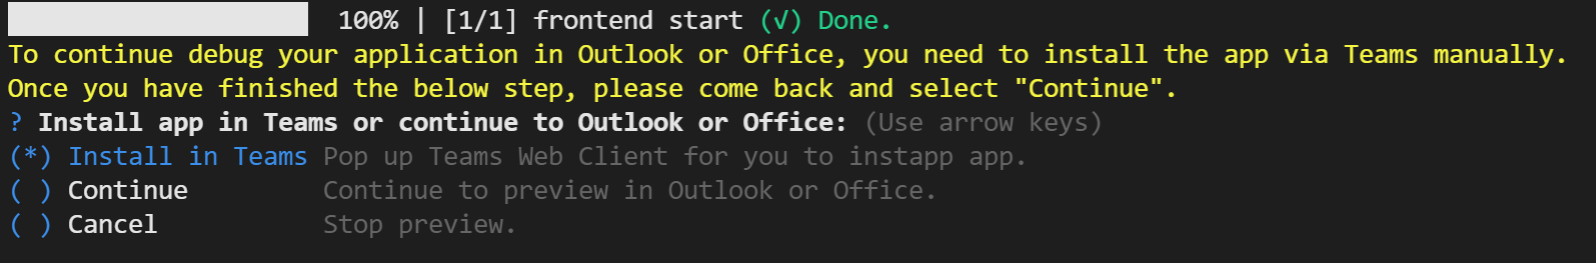
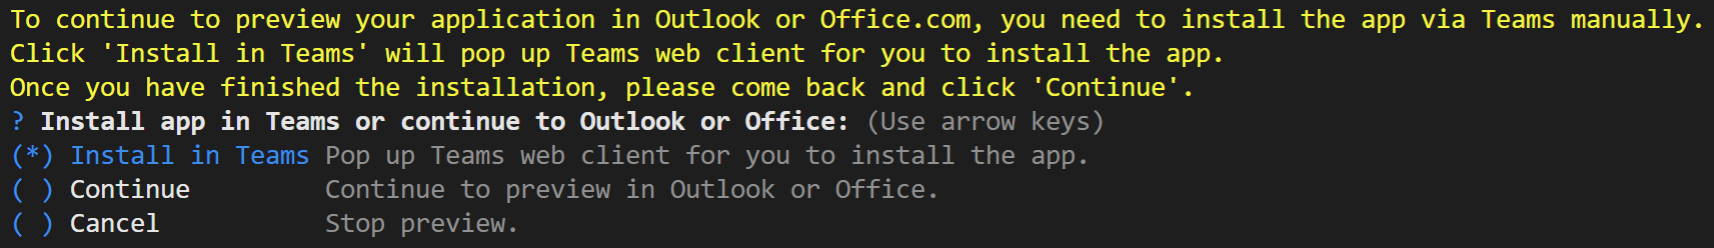
chore(m365): update m365 template readme

Changed region(s): [[0.0, 0.4234, 0.7061, 0.9597], [0.0, 0.1694, 0.9825, 0.3952], [0.0, 0.0, 1.0, 0.1411]]

diff --git a/templates/bot/js/m365/README.md b/templates/bot/js/m365/README.md
@@ -1,12 +1,10 @@
 # How to use this M365 Messaging Extensions Search app
 
-A bot, chatbot, or conversational bot is an app that responds to simple commands sent in chat and replies in meaningful ways. Examples of bots in everyday use include: bots that notify about build failures, bots that provide information about the weather or bus schedules, or provide travel information. A bot interaction can be a quick question and answer, or it can be a complex conversation. Being a cloud application, a bot can provide valuable and secure access to cloud services and corporate resources.
-
-A Messaging Extension allows users to interact with your web service while composing messages in the Microsoft Teams client. Users can invoke your web service to assist message composition, from the message compose box, or from the search bar.
+A Messaging Extension allows users to interact with your web service while composing messages in the Microsoft Teams and Outlook client. Users can invoke your web service to assist message composition, from the message compose box, or from the search bar.
 
 Messaging Extensions are implemented on top of the Bot support architecture within Teams.
 
-This is a simple hello world application with both Bot and Messaging extension capabilities.
+This is a simple search application with Messaging extension capabilities.
 
 ![Search App Demo](./images/SearchAppDemo.gif)
 
@@ -18,16 +16,14 @@ This is a simple hello world application with both Bot and Messaging extension c
 
 ## Debug
 ### From Visual Studio Code
-- Use the `Run and Debug Activity Panel` in Visual Studio Code, select `Debug in Teams`, `Debug in Outlook` and click the `Run and Debug` green arrow button.
-- If you select `Debug in Outlook`, during debugging, a VS Code dialog will be popped up as the image below. Please click "Install in Teams" first to install the app in Teams, then click "Connect to Outlook channel" to connect the bot to Outlook channel, then click "Continue" to continue debugging the app in Outlook.
-
-  ![Install in Teams](./images/InstallInTeamsVSC.png)
+1. Use the `Run and Debug Activity Panel` in Visual Studio Code, select `Debug in Teams`, `Debug in Outlook` and click the `Run and Debug` green arrow button.
+2. If you select `Debug in Outlook`, during debugging, a VS Code dialog will be popped up as the image below. Please click "Install in Teams" first to install the app in Teams, then click "Configure Outlook" to connect the bot to Outlook channel, then click "Continue" to continue to debug the app in Outlook.
+  ![Install in Teams VSC Local](./images/InstallInTeamsVSCLocal.png)
 
 ### From TeamsFx CLI
-- From TeamsFx CLI: Start debugging the project by executing the command `teamsfx preview --local --m365-host <m365-host>` in your project directory, where `m365-host` is `teams` or `outlook`.
-- If you select `m365-host` as outlook, during debugging, a dialog will be popped up as the image below. Please select "Install in Teams" first to install the app in Teams, then select "Connect to Outlook channel" to connect the bot to Outlook channel, then select "Continue" to continue debugging the app in Outlook or Office.
-
-  ![Install in Teams](./images/InstallInTeamsCLI.png)
+1. From TeamsFx CLI: Start debugging the project by executing the command `teamsfx preview --local --m365-host <m365-host>` in your project directory, where `m365-host` is `teams` or `outlook`.
+2. If you select `m365-host` as `outlook`, during debugging, a dialog will be popped up as the image below. Please select "Install in Teams" first to install the app in Teams, then select "Configure Outlook" to connect the bot to Outlook channel, then select "Continue" to continue to debug the app in Outlook.
+  ![Install in Teams CLI Local](./images/InstallInTeamsCLILocal.png)
 
 ## Edit the manifest
 
@@ -48,15 +44,19 @@ Deploy your project to Azure by following these steps:
 
 ## Preview
 
-Once the provisioning and deployment steps are finished, you can preview your app:
+Once the provisioning and deployment steps are finished, you can preview your app.
 
-- From Visual Studio Code
+### From Visual Studio Code
+1. Open the `Teams Toolkit Activity Panel`.
+2. In `ENVIRONMENTS`, select the environment you want to preview and click the `Preview App` icon.
+3. For the prompted question, select the platform you want to preview in.
+4. If you select `Outlook`, a VS Code dialog will be popped up as the image below. Please click "Install in Teams" first to install the app in Teams, then click "Configure Outlook" to connect the bot to Outlook channel, then click "Continue" to continue to preview the app in Outlook.
+  ![Install in Teams VSC Remote](./images/InstallInTeamsVSCRemote.png)
 
-  1. Open the `Run and Debug Activity Panel`.
-  1. Select `Launch Remote (Edge)` or `Launch Remote (Chrome)` from the launch configuration drop-down.
-  1. Press the Play (green arrow) button to launch your app - now running remotely from Azure.
-
-- From TeamsFx CLI: execute `teamsfx preview --remote` in your project directory to launch your application.
+### From TeamsFx CLI
+- Execute `teamsfx preview --remote --m365-host <m365-host>` in your project directory, where `m365-host` is `teams` or `outlook`.
+2. If you select `m365-host` as `outlook`, during debugging, a dialog will be popped up as the image below. Please select "Install in Teams" first to install the app in Teams, then select "Configure Outlook" to connect the bot to Outlook channel, then select "Continue" to continue to debug the app in Outlook.
+  ![Install in Teams CLI Remote](./images/InstallInTeamsCLIRemote.png)
 
 ## Validate manifest file
 

diff --git a/templates/bot/ts/m365/README.md b/templates/bot/ts/m365/README.md
@@ -1,12 +1,10 @@
 # How to use this M365 Messaging Extensions Search app
 
-A bot, chatbot, or conversational bot is an app that responds to simple commands sent in chat and replies in meaningful ways. Examples of bots in everyday use include: bots that notify about build failures, bots that provide information about the weather or bus schedules, or provide travel information. A bot interaction can be a quick question and answer, or it can be a complex conversation. Being a cloud application, a bot can provide valuable and secure access to cloud services and corporate resources.
-
-A Messaging Extension allows users to interact with your web service while composing messages in the Microsoft Teams client. Users can invoke your web service to assist message composition, from the message compose box, or from the search bar.
+A Messaging Extension allows users to interact with your web service while composing messages in the Microsoft Teams and Outlook client. Users can invoke your web service to assist message composition, from the message compose box, or from the search bar.
 
 Messaging Extensions are implemented on top of the Bot support architecture within Teams.
 
-This is a simple hello world application with both Bot and Messaging extension capabilities.
+This is a simple search application with Messaging extension capabilities.
 
 ![Search App Demo](./images/SearchAppDemo.gif)
 
@@ -18,16 +16,14 @@ This is a simple hello world application with both Bot and Messaging extension c
 
 ## Debug
 ### From Visual Studio Code
-- Use the `Run and Debug Activity Panel` in Visual Studio Code, select `Debug in Teams`, `Debug in Outlook` and click the `Run and Debug` green arrow button.
-- If you select `Debug in Outlook`, during debugging, a VS Code dialog will be popped up as the image below. Please click "Install in Teams" first to install the app in Teams, then click "Connect to Outlook channel" to connect the bot to Outlook channel, then click "Continue" to continue debugging the app in Outlook.
-
-  ![Install in Teams](./images/InstallInTeamsVSC.png)
+1. Use the `Run and Debug Activity Panel` in Visual Studio Code, select `Debug in Teams`, `Debug in Outlook` and click the `Run and Debug` green arrow button.
+2. If you select `Debug in Outlook`, during debugging, a VS Code dialog will be popped up as the image below. Please click "Install in Teams" first to install the app in Teams, then click "Configure Outlook" to connect the bot to Outlook channel, then click "Continue" to continue to debug the app in Outlook.
+  ![Install in Teams VSC Local](./images/InstallInTeamsVSCLocal.png)
 
 ### From TeamsFx CLI
-- From TeamsFx CLI: Start debugging the project by executing the command `teamsfx preview --local --m365-host <m365-host>` in your project directory, where `m365-host` is `teams` or `outlook`.
-- If you select `m365-host` as outlook, during debugging, a dialog will be popped up as the image below. Please select "Install in Teams" first to install the app in Teams, then select "Connect to Outlook channel" to connect the bot to Outlook channel, then select "Continue" to continue debugging the app in Outlook or Office.
-
-  ![Install in Teams](./images/InstallInTeamsCLI.png)
+1. From TeamsFx CLI: Start debugging the project by executing the command `teamsfx preview --local --m365-host <m365-host>` in your project directory, where `m365-host` is `teams` or `outlook`.
+2. If you select `m365-host` as `outlook`, during debugging, a dialog will be popped up as the image below. Please select "Install in Teams" first to install the app in Teams, then select "Configure Outlook" to connect the bot to Outlook channel, then select "Continue" to continue to debug the app in Outlook.
+  ![Install in Teams CLI Local](./images/InstallInTeamsCLILocal.png)
 
 ## Edit the manifest
 
@@ -48,15 +44,19 @@ Deploy your project to Azure by following these steps:
 
 ## Preview
 
-Once the provisioning and deployment steps are finished, you can preview your app:
+Once the provisioning and deployment steps are finished, you can preview your app.
 
-- From Visual Studio Code
+### From Visual Studio Code
+1. Open the `Teams Toolkit Activity Panel`.
+2. In `ENVIRONMENTS`, select the environment you want to preview and click the `Preview App` icon.
+3. For the prompted question, select the platform you want to preview in.
+4. If you select `Outlook`, a VS Code dialog will be popped up as the image below. Please click "Install in Teams" first to install the app in Teams, then click "Configure Outlook" to connect the bot to Outlook channel, then click "Continue" to continue to preview the app in Outlook.
+  ![Install in Teams VSC Remote](./images/InstallInTeamsVSCRemote.png)
 
-  1. Open the `Run and Debug Activity Panel`.
-  1. Select `Launch Remote (Edge)` or `Launch Remote (Chrome)` from the launch configuration drop-down.
-  1. Press the Play (green arrow) button to launch your app - now running remotely from Azure.
-
-- From TeamsFx CLI: execute `teamsfx preview --remote` in your project directory to launch your application.
+### From TeamsFx CLI
+- Execute `teamsfx preview --remote --m365-host <m365-host>` in your project directory, where `m365-host` is `teams` or `outlook`.
+2. If you select `m365-host` as `outlook`, during debugging, a dialog will be popped up as the image below. Please select "Install in Teams" first to install the app in Teams, then select "Configure Outlook" to connect the bot to Outlook channel, then select "Continue" to continue to debug the app in Outlook.
+  ![Install in Teams CLI Remote](./images/InstallInTeamsCLIRemote.png)
 
 ## Validate manifest file
 

diff --git a/templates/tab/js/m365/README.md b/templates/tab/js/m365/README.md
@@ -14,14 +14,16 @@ Microsoft 365 supports the ability to run web-based UI inside "custom tabs" that
 
 ## Debug
 ### From Visual Studio Code
-- Use the `Run and Debug Activity Panel` in Visual Studio Code, select `Debug in Teams`, `Debug in Outlook` or `Debug in Office` and click the `Run and Debug` green arrow button.
-- If you select `Debug in Outlook` or `Debug in Office`, during debugging, a VS Code dialog will be popped up as the image below. Please click "Install in Teams" first to install the app in Teams, then click "Continue" to continue debugging the app in Outlook or Office.
-![Install in Teams](./images/install-in-teams-vsc.png)
+1. Use the `Run and Debug Activity Panel` in Visual Studio Code, select `Debug in Teams`, `Debug in Outlook` or `Debug in Office` and click the `Run and Debug` green arrow button.
+2. If you select `Debug in Outlook` or `Debug in Office`, during debugging, a VS Code dialog will be popped up as the image below. Please click "Install in Teams" first to install the app in Teams, then click "Continue" to continue to debug the app in Outlook or Office.
+
+  ![Install in Teams VSC Local](./images/install-in-teams-vsc-local.png)
 
 ### From TeamsFx CLI
-- Start debugging the project by executing the command `teamsfx preview --local --m365-host <m365-host>` in your project directory, where `m365-host` is `teams`, `outlook` or `office`.
-- If you select `m365-host` as `outlook` or `office`, during debugging, a dialog will be popped up as the image below. Please select "Install in Teams" first to install the app in Teams, then select "Continue" to continue debugging the app in Outlook or Office.
-![Install in Teams](./images/install-in-teams-cli.png)
+1. Start debugging the project by executing the command `teamsfx preview --local --m365-host <m365-host>` in your project directory, where `m365-host` is `teams`, `outlook` or `office`.
+2. If you select `m365-host` as `outlook` or `office`, during debugging, a dialog will be popped up as the image below. Please select "Install in Teams" first to install the app in Teams, then select "Continue" to continue to debug the app in Outlook or Office.
+
+  ![Install in Teams CLI](./images/install-in-teams-cli.png)
 
 ## Edit the manifest
 
@@ -42,9 +44,21 @@ Deploy your project to Azure by following these steps:
 
 ## Preview
 
-Once the provisioning and deployment steps are finished, you can preview your app:
+Once the provisioning and deployment steps are finished, you can preview your app.
 
-- From TeamsFx CLI: execute `teamsfx preview --remote --m365-host <m365-host>` in your project directory to launch your application, where `m365-host` is `teams`, `outlook` or `office`.
+### From Visual Studio Code
+1. Open the `Teams Toolkit Activity Panel`.
+2. In `ENVIRONMENTS`, select the environment you want to preview and click the `Preview App` icon.
+3. For the prompted question, select the platform you want to preview in.
+4. If you select `Outlook` or `Office`, a VS Code dialog will be popped up as the image below. Please click "Install in Teams" first to install the app in Teams, then click "Continue" to continue to preview the app in Outlook or Office.
+
+  ![Install in Teams VSC Remote](./images/install-in-teams-vsc-remote.png)
+
+### From TeamsFx CLI
+1. Execute `teamsfx preview --remote --m365-host <m365-host>` in your project directory to launch your application, where `m365-host` is `teams`, `outlook` or `office`.
+2. If you select `m365-host` as `outlook` or `office`, during preview, a dialog will be popped up as the image below. Please select "Install in Teams" first to install the app in Teams, then select "Continue" to continue to preview the app in Outlook or Office.
+
+  ![Install in Teams CLI](./images/install-in-teams-cli.png)
 
 ## Validate manifest file
 

diff --git a/templates/tab/ts/m365/README.md b/templates/tab/ts/m365/README.md
@@ -14,14 +14,16 @@ Microsoft 365 supports the ability to run web-based UI inside "custom tabs" that
 
 ## Debug
 ### From Visual Studio Code
-- Use the `Run and Debug Activity Panel` in Visual Studio Code, select `Debug in Teams`, `Debug in Outlook` or `Debug in Office` and click the `Run and Debug` green arrow button.
-- If you select `Debug in Outlook` or `Debug in Office`, during debugging, a VS Code dialog will be popped up as the image below. Please click "Install in Teams" first to install the app in Teams, then click "Continue" to continue debugging the app in Outlook or Office.
-![Install in Teams](./images/install-in-teams-vsc.png)
+1. Use the `Run and Debug Activity Panel` in Visual Studio Code, select `Debug in Teams`, `Debug in Outlook` or `Debug in Office` and click the `Run and Debug` green arrow button.
+2. If you select `Debug in Outlook` or `Debug in Office`, during debugging, a VS Code dialog will be popped up as the image below. Please click "Install in Teams" first to install the app in Teams, then click "Continue" to continue to debug the app in Outlook or Office.
+
+  ![Install in Teams VSC Local](./images/install-in-teams-vsc-local.png)
 
 ### From TeamsFx CLI
-- Start debugging the project by executing the command `teamsfx preview --local --m365-host <m365-host>` in your project directory, where `m365-host` is `teams`, `outlook` or `office`.
-- If you select `m365-host` as `outlook` or `office`, during debugging, a dialog will be popped up as the image below. Please select "Install in Teams" first to install the app in Teams, then select "Continue" to continue debugging the app in Outlook or Office.
-![Install in Teams](./images/install-in-teams-cli.png)
+1. Start debugging the project by executing the command `teamsfx preview --local --m365-host <m365-host>` in your project directory, where `m365-host` is `teams`, `outlook` or `office`.
+2. If you select `m365-host` as `outlook` or `office`, during debugging, a dialog will be popped up as the image below. Please select "Install in Teams" first to install the app in Teams, then select "Continue" to continue to debug the app in Outlook or Office.
+
+  ![Install in Teams CLI](./images/install-in-teams-cli.png)
 
 ## Edit the manifest
 
@@ -42,9 +44,21 @@ Deploy your project to Azure by following these steps:
 
 ## Preview
 
-Once the provisioning and deployment steps are finished, you can preview your app:
+Once the provisioning and deployment steps are finished, you can preview your app.
 
-- From TeamsFx CLI: execute `teamsfx preview --remote --m365-host <m365-host>` in your project directory to launch your application, where `m365-host` is `teams`, `outlook` or `office`.
+### From Visual Studio Code
+1. Open the `Teams Toolkit Activity Panel`.
+2. In `ENVIRONMENTS`, select the environment you want to preview and click the `Preview App` icon.
+3. For the prompted question, select the platform you want to preview in.
+4. If you select `Outlook` or `Office`, a VS Code dialog will be popped up as the image below. Please click "Install in Teams" first to install the app in Teams, then click "Continue" to continue to preview the app in Outlook or Office.
+
+  ![Install in Teams VSC Remote](./images/install-in-teams-vsc-remote.png)
+
+### From TeamsFx CLI
+1. Execute `teamsfx preview --remote --m365-host <m365-host>` in your project directory to launch your application, where `m365-host` is `teams`, `outlook` or `office`.
+2. If you select `m365-host` as `outlook` or `office`, during preview, a dialog will be popped up as the image below. Please select "Install in Teams" first to install the app in Teams, then select "Continue" to continue to preview the app in Outlook or Office.
+
+  ![Install in Teams CLI](./images/install-in-teams-cli.png)
 
 ## Validate manifest file
 
